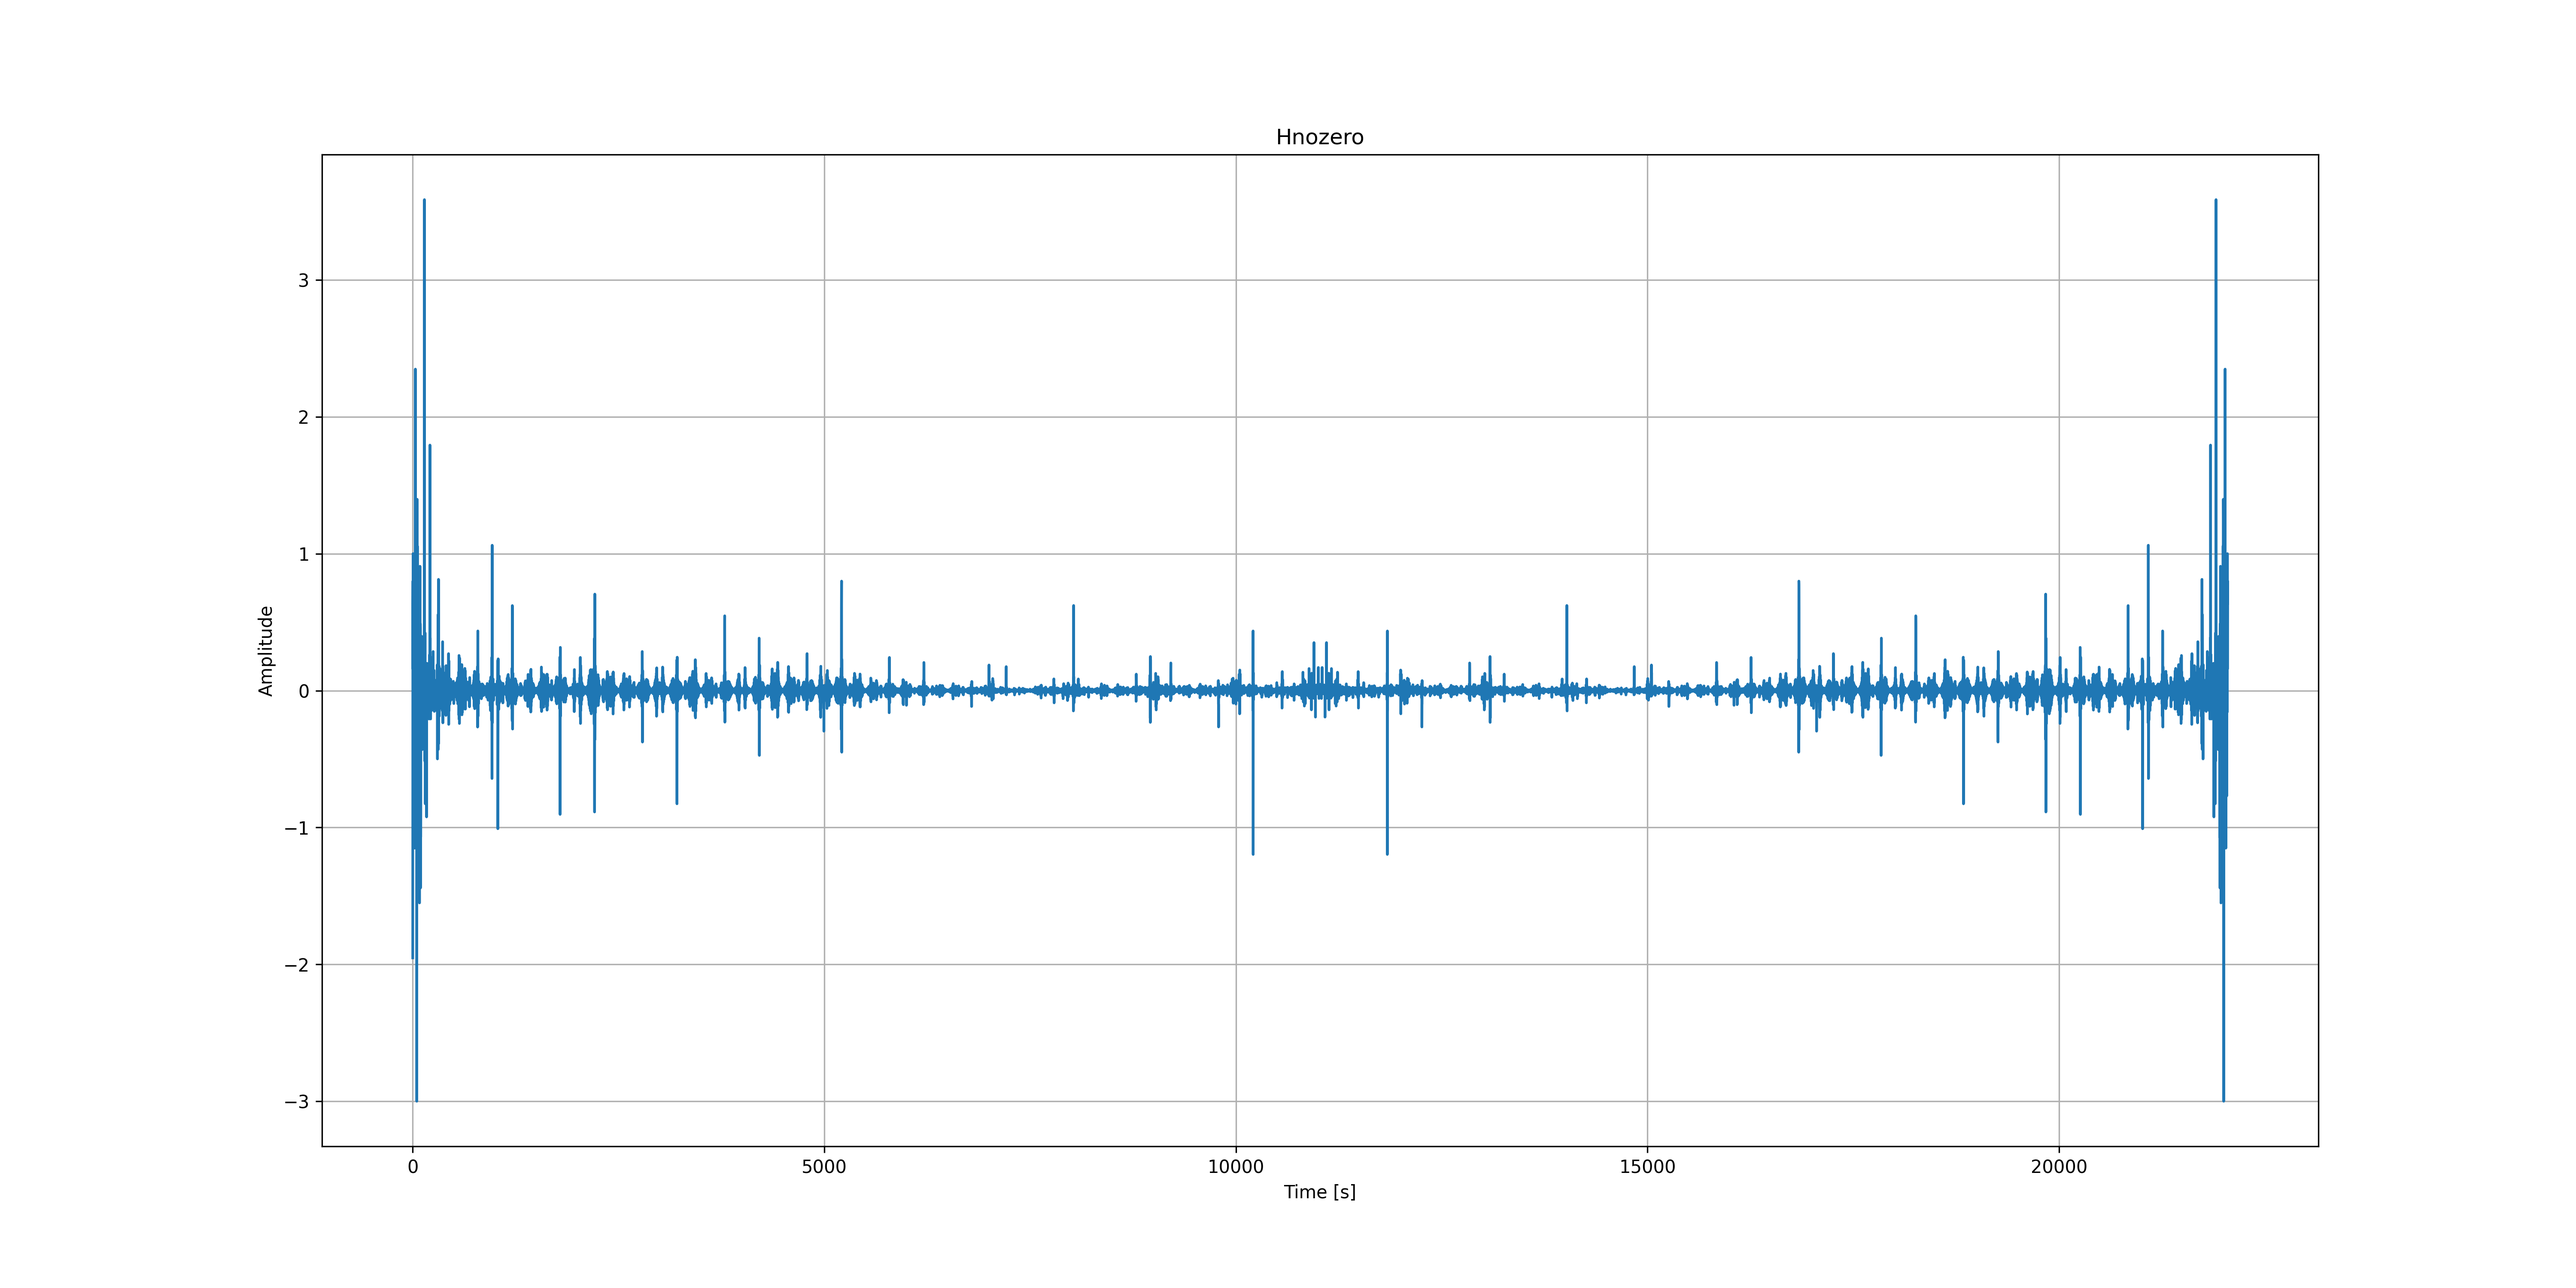
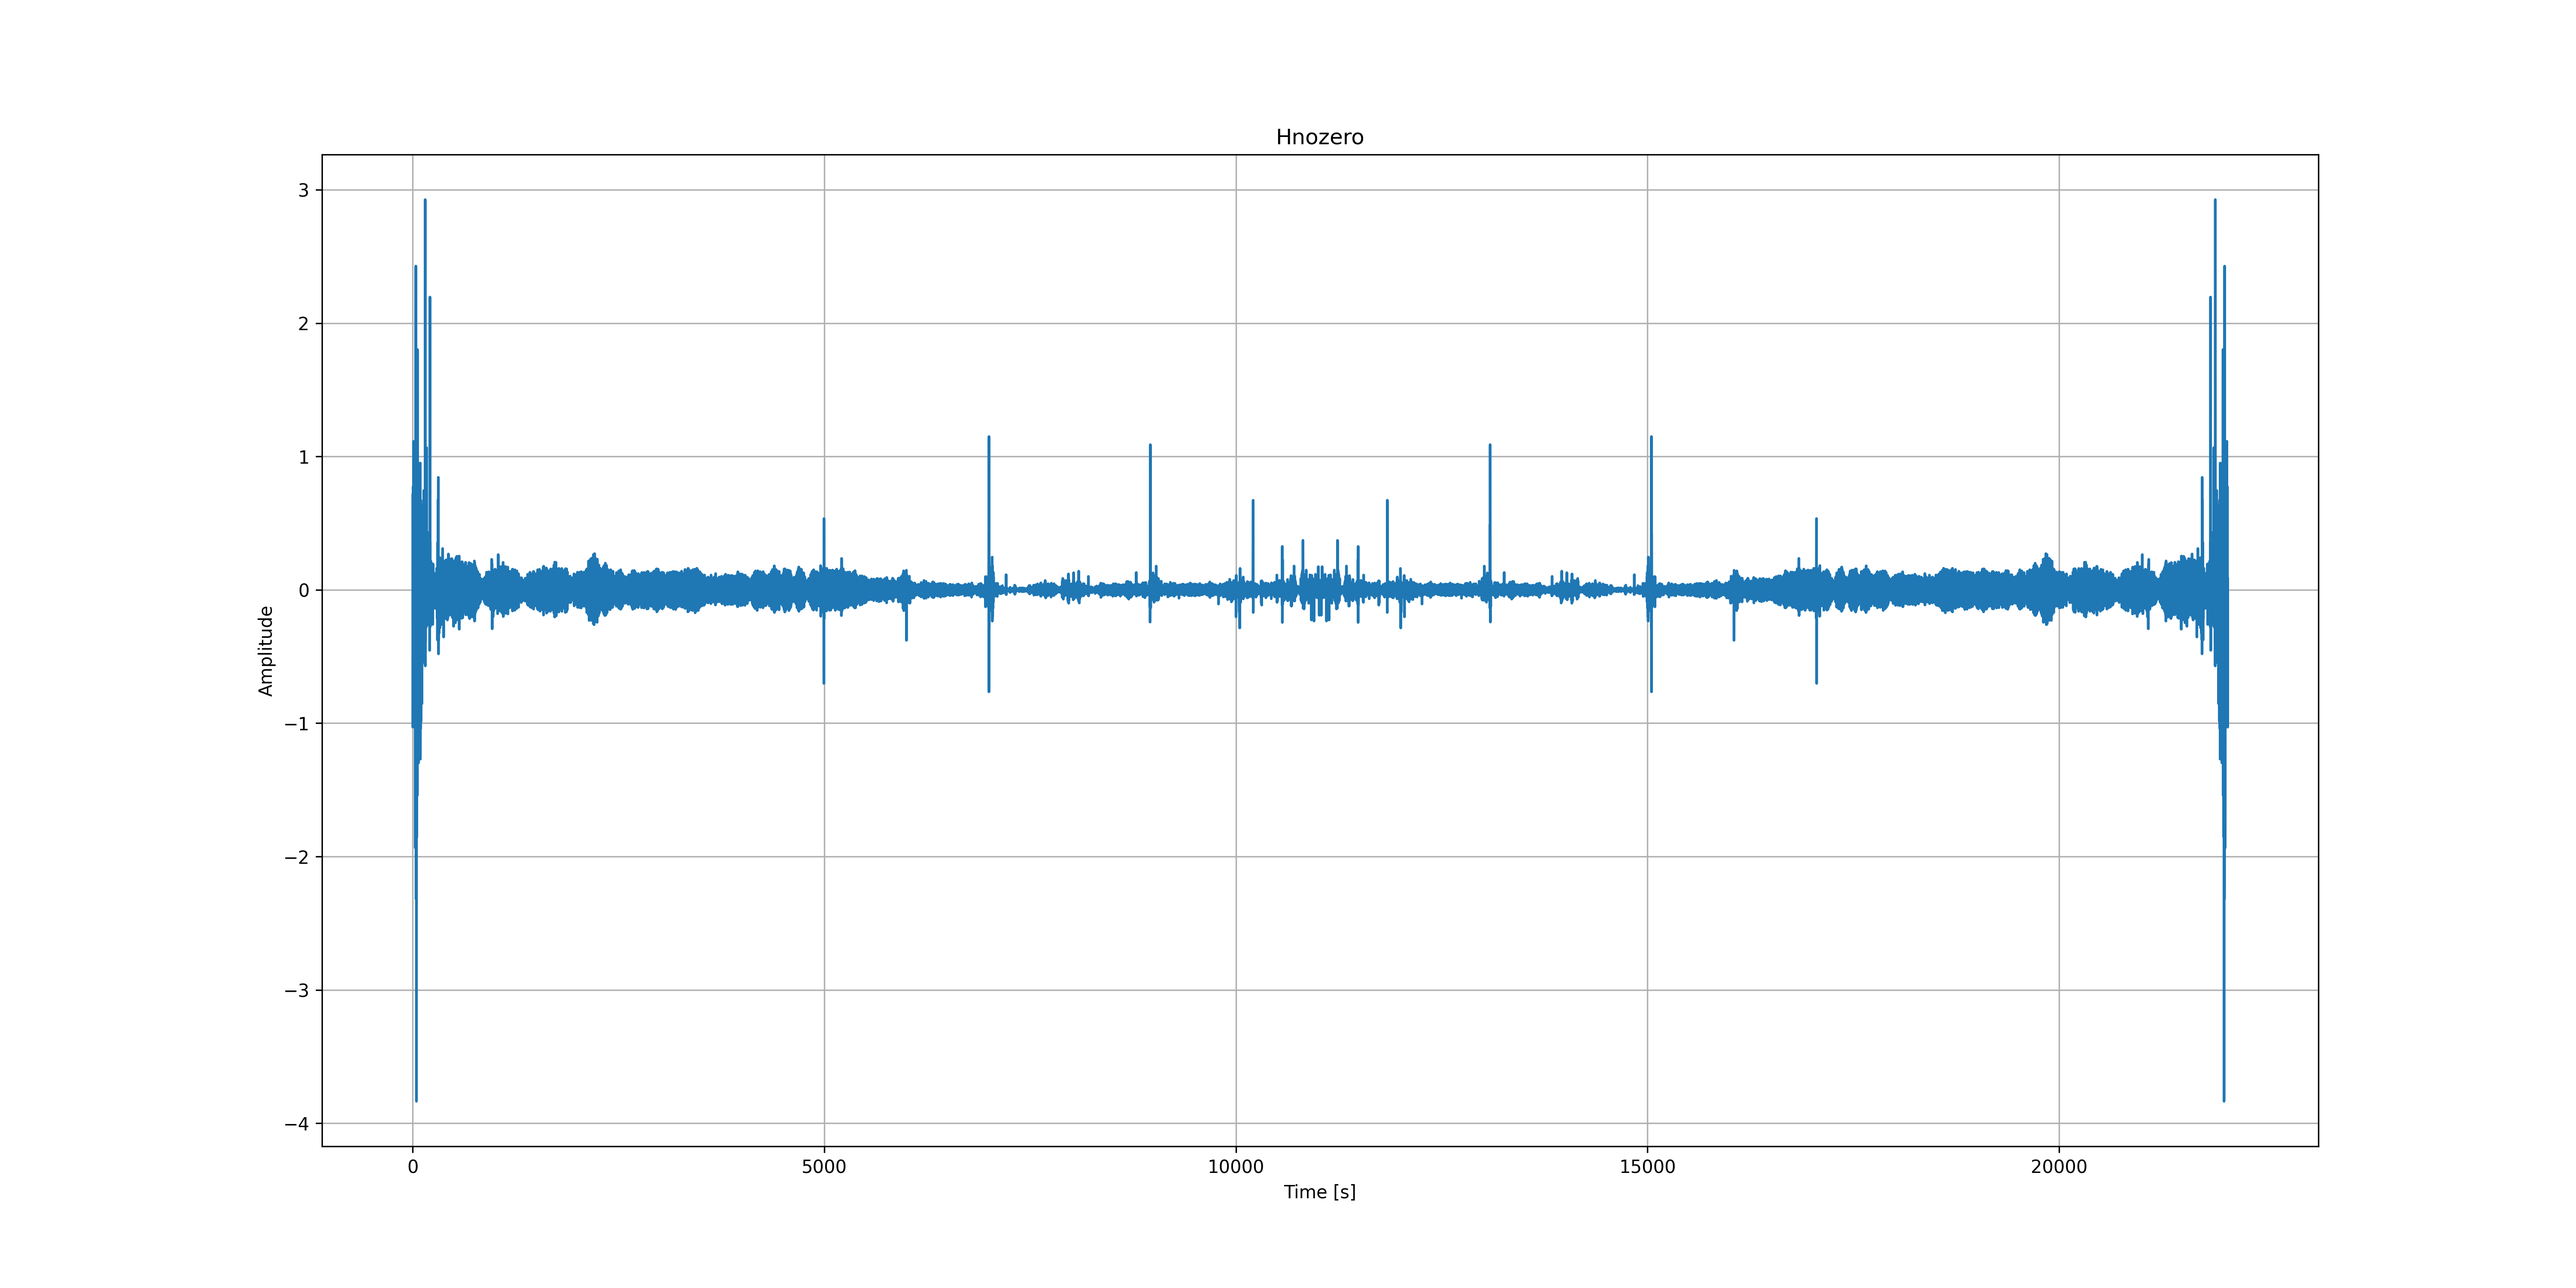
TDOA WERKT!

Changed region(s): [[0.1558, 0.217, 0.8727, 0.682], [0.1558, 0.217, 0.187, 0.279]]

diff --git a/LocationNewMethod.py b/LocationNewMethod.py
@@ -26,45 +26,52 @@ class localization:
         audio_channel3 = audiowav[:,2]
         audio_channel4 = audiowav[:,3]
         audio_channel5 = audiowav[:,4]
-        Fs, ref_signal = wavfile.read("opnames/reference.wav")
+        Fref, ref_signal = wavfile.read("opnames/reference.wav")
         ref_signal =  ref_signal[:,0]
-        
-        
-        # fig, ax = plt.subplots(2, 1, figsize=(20,10))
-        # ax[0].plot(audio_channel1, color='C0')
-        # ax[0].set_title("ref")
-        # ax[0].set_xlabel("Time [s]")
-        # ax[0].set_ylabel("Amplitude")
-        # fig.tight_layout()
-        # #plt.show()
-        # plt.savefig('channel1', dpi=300)
-        # plt.close()
         
         
         #segments
         segments_channel1 = localization.detect_segments(audio_channel1)
-        segments_channel2 = localization.detect_segments(audio_channel2)
-        segments_channel3 = localization.detect_segments(audio_channel3)
+        #segments_channel2 = localization.detect_segments(audio_channel2)
+        #segments_channel3 = localization.detect_segments(audio_channel3)
         segments_channel4 = localization.detect_segments(audio_channel4)
-        segments_channel5 = localization.detect_segments(audio_channel5)
+        #segments_channel5 = localization.detect_segments(audio_channel5)
         refsig = localization.detect_segments(ref_signal)
         ref = refsig[12]
+        ref = ref[750:1500]
 
-        plt.figure(figsize=(20,10))
-        plt.plot(segments_channel1[5], color='C0')
-        plt.title("ref")
+        plt.figure(figsize=(10,5))
+        plt.plot(audio_channel1, color='C0')
+        plt.title("Input audio")
         plt.xlabel("Time [s]")
         plt.ylabel("Amplitude")
         plt.grid(True)
         plt.show()
 
-        plt.figure(figsize=(20,10))
+        plt.figure(figsize=(10,5))
+        plt.plot(abs(segments_channel1[5]), color='C0')
+        plt.title("Input segment 5")
+        plt.xlabel("Time [s]")
+        plt.ylabel("Amplitude")
+        plt.grid(True)
+        plt.show()
+
+        plt.figure(figsize=(10,5))
+        plt.plot(abs(ref_signal), color='C0')
+        plt.title("Ref signal")
+        plt.xlabel("Time [s]")
+        plt.ylabel("Amplitude")
+        plt.grid(True)
+        plt.show()
+
+        plt.figure(figsize=(10,5))
         plt.plot(abs(ref), color='C0')
-        plt.title("ref")
+        plt.title("Ref signal small part")
         plt.xlabel("Time [s]")
         plt.ylabel("Amplitude")
         plt.grid(True)
         plt.show()
+
         
         #channel estimation
         
@@ -74,7 +81,7 @@ class localization:
         #TOT HIER IS OUTPUT!!! gaat dus iets mis in ch3
         
         
-        # ch_audio_channel1 = localization.ch3(segments_channel1[5], refsig[12])
+        # ch_audio_channel1 = localization.ch3(segments_channel1[5], ref)
         # ch_audio_channel2 = localization.ch3(segments_channel2[5], refsig[12])
         # ch_audio_channel3 = localization.ch3(segments_channel3[5], refsig[12])
         # ch_audio_channel4 = localization.ch3(segments_channel4[5], refsig[12])
@@ -86,8 +93,8 @@ class localization:
         channel_responses_4 = [localization.ch3(segment, ref) for segment in segments_channel4]
         channel_responses_array_4 = np.array(channel_responses_4)
         
-        plt.figure(figsize=(20,10))
-        plt.plot(channel_responses_array_1[1], color='C0')
+        plt.figure(figsize=(10,5))
+        plt.plot(channel_responses_array_1[5], color='C0')
         plt.title("ref")
         plt.xlabel("Time [s]")
         plt.ylabel("Amplitude")
@@ -102,10 +109,10 @@ class localization:
         peaks_channel4 = localization.find_segment_peaks(channel_responses_array_4)
         # peaks_channel5 = localization.find_segment_peaks(ch_audio_channel5, peak_threshold = 0.9*np.max(segments_channel5))   
         
-        #print(peaks_channel1)
+        print(peaks_channel1)
         # print(peaks_channel2)
         # print(peaks_channel3)
-        # print(peaks_channel4)
+        print(peaks_channel4)
         # print(peaks_channel5)
 
         sorted_peaks_1 = np.sort(peaks_channel1)
@@ -138,10 +145,7 @@ class localization:
         segments = []
         num_segments = 40
         segment_length = len(audio_signal) // num_segments
-        #print(len(audio_signal))
-        #print(segment_length)
         segments = [audio_signal[i*segment_length : (i+1)*segment_length] for i in range(num_segments)]
-
         return segments    
 
     def find_segment_peaks(segment_signal):
@@ -178,46 +182,23 @@ class localization:
 
         # Force x to be the same length as y
         reference_signal = np.append(reference_signal, [0]* (L-1))     # Make x same length as y
+        print(len(reference_signal))
+
+
 
         # Deconvolution in frequency domain
         fft_signal_1 = fft(signal_1)
         fft_reference_signal = fft(reference_signal)
 
         # Threshold to avoid blow ups of noise during inversion
-        ii = np.abs(fft_reference_signal) < epsi*np.max(np.abs(fft_reference_signal))
-        fft_reference_signal=fft_reference_signal[:len(fft_signal_1)]
-        fft_signal_1=fft_signal_1[:len(fft_reference_signal)]
-        H = np.divide(fft_signal_1,fft_reference_signal)
+        ii = (np.abs(fft_reference_signal)) < (np.max(np.abs(fft_reference_signal))*epsi)
 
-        plt.figure(figsize=(20,10))
-        plt.plot(H, color='C0')
-        plt.title("Hnozero")
-        plt.xlabel("Time [s]")
-        plt.ylabel("Amplitude")
-        plt.grid(True)
-        plt.savefig('Hnozero', dpi=300)
+        H = np.divide(fft_signal_1, fft_reference_signal)
+        H[ii] = 0
 
-        H = [0 if condition else reference_signal for reference_signal, condition in zip(fft_signal_1, ii)]
-
-        plt.figure(figsize=(20,10))
-        plt.plot(H, color='C0')
-        plt.title("H")
-        plt.xlabel("Time [s]")
-        plt.ylabel("Amplitude")
-        plt.grid(True)
-        plt.savefig('Hfft', dpi=300)
-        
-
+        #H = [0 if condition else reference_signal for reference_signal, condition in zip(fft_signal_1, ii)]
         h = np.real(ifft(H))    
         h = h[0:Lhat]
-
-        plt.figure(figsize=(20,10))
-        plt.plot(h, color='C0')
-        plt.title("h")
-        plt.xlabel("Time [s]")
-        plt.ylabel("Amplitude")
-        plt.grid(True)
-        plt.savefig('hifft', dpi=300)      
 
         return abs(h)
 
